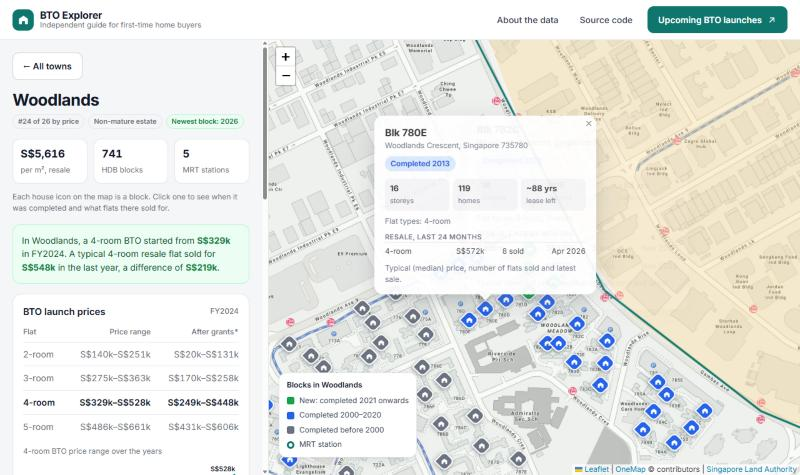
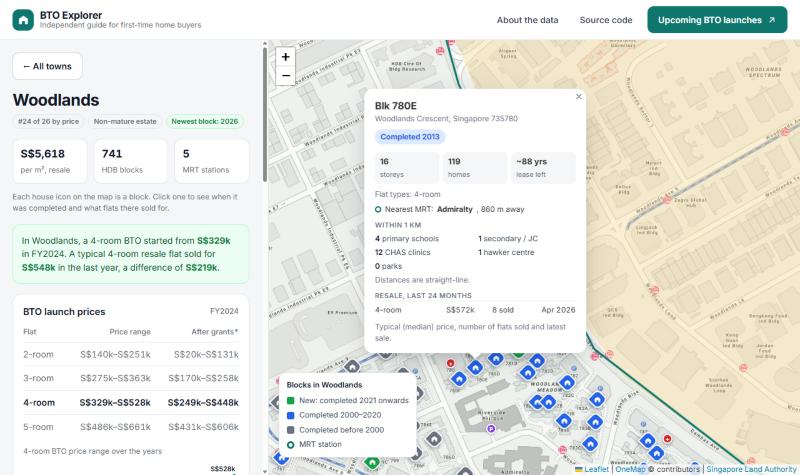
BTO Explorer: nearest MRT, amenities and monthly updates shipped

diff --git a/bto-explorer.html b/bto-explorer.html
@@ -4,7 +4,7 @@
 <meta charset="UTF-8">
 <meta name="viewport" content="width=device-width, initial-scale=1, viewport-fit=cover">
 <title>BTO Explorer case study | Matthew Tan</title>
-<meta name="description" content="How I built BTO Explorer, an independent map that helps young couples in Singapore compare HDB towns and every HDB block using seven official open datasets.">
+<meta name="description" content="How I built BTO Explorer, an independent map that helps young couples in Singapore compare HDB towns and every HDB block, using ten official open datasets that update every month.">
 <meta property="og:title" content="BTO Explorer case study | Matthew Tan">
 <meta property="og:description" content="An independent map for young couples: HDB towns, 10,800+ blocks, BTO launch prices, MRT and food nearby.">
 <meta property="og:type" content="article">
@@ -36,15 +36,15 @@
       <div><dt>Role</dt><dd>Solo: research, data, design, build</dd></div>
       <div><dt>Timeline</dt><dd>2026</dd></div>
       <div><dt>Stack</dt><dd>Python, pandas, SQL, Shapely, Leaflet</dd></div>
-      <div><dt>Data</dt><dd>7 official datasets: HDB, URA, LTA, NEA</dd></div>
+      <div><dt>Data</dt><dd>10 official datasets, updated monthly</dd></div>
     </dl>
     <div class="actions">
       <a class="btn btn-primary" href="https://yushenn.github.io/bto-explorer/" target="_blank" rel="noopener"><svg viewBox="0 0 24 24" fill="none" stroke="currentColor" stroke-width="2" stroke-linecap="round" stroke-linejoin="round" aria-hidden="true"><path d="M7 17 17 7M8 7h9v9"/></svg>Open live site</a>
       <a class="btn" href="https://github.com/yushenn/bto-explorer" target="_blank" rel="noopener"><svg viewBox="0 0 24 24" fill="none" stroke="currentColor" stroke-width="2" stroke-linecap="round" stroke-linejoin="round" aria-hidden="true"><path d="m8 8-4 4 4 4M16 8l4 4-4 4"/></svg>View code</a>
     </div>
     <figure class="wide-shot reveal">
-      <img src="images/bto-block.jpg" alt="BTO Explorer zoomed into Woodlands, with house icons for each block and a popup for Blk 780E showing its completion year and resale prices" width="800" height="475" loading="lazy">
-      <figcaption>Every HDB block is a house icon. Click one for its completion year, size, lease left and recent resale prices.</figcaption>
+      <img src="images/bto-block.jpg" alt="BTO Explorer zoomed into Woodlands, with a popup for Blk 780E showing its completion year, nearest MRT station, what is within 1 km, and resale prices" width="800" height="475" loading="lazy">
+      <figcaption>Every HDB block is a house icon. Click one for its completion year, nearest MRT, what's within 1 km and recent resale prices.</figcaption>
     </figure>
   </section>
 
@@ -64,6 +64,7 @@
         <li><b>A town map ranked from most to least expensive,</b> by resale price per m² over the last 12 months.</li>
         <li><b>A budget mode:</b> pick a flat type and budget to see where a typical resale flat fits, and where only a recent BTO launch fits.</li>
         <li><b>Every HDB block on the map.</b> 10,802 blocks appear as house icons, coloured by age. Click one for its completion year, storeys, homes, lease left, flat types and resale prices from the last 24 months.</li>
+        <li><b>What's nearby:</b> each block shows its nearest MRT station and distance, plus the primary schools, secondary schools, CHAS clinics, parks and hawker centres within 1 km. Each of these can also be switched on as a map layer.</li>
         <li><b>A town panel</b> with BTO launch prices (including after grants) since FY2008, the gap between BTO and resale prices, MRT/LRT stations and hawker centres.</li>
       </ul>
     </div>
@@ -93,8 +94,8 @@
       </div>
       <div class="card">
         <span class="ic"><svg viewBox="0 0 24 24" fill="none" stroke="currentColor" stroke-width="2" stroke-linecap="round" stroke-linejoin="round" aria-hidden="true"><circle cx="12" cy="12" r="9"/><path d="M12 8v4l3 2"/></svg></span>
-        <h3>Reproducible pipeline</h3>
-        <p>Two Python scripts download all seven datasets from the data.gov.sg API and rebuild every file the site uses, so the data can be refreshed with two commands.</p>
+        <h3>Nearby, with NumPy</h3>
+        <p>For each of the 10,802 blocks, vectorised haversine distances find the nearest MRT station and count the schools, clinics, parks and hawker centres within 1 km. School postal codes are placed with OneMap's search, once, and cached.</p>
       </div>
     </div>
   </section>
@@ -136,11 +137,28 @@
   </section>
 
   <section class="section reveal">
-    <div class="section-head"><span class="num">06</span><h2>What I'd do next</h2></div>
+    <div class="section-head"><span class="num">06</span><h2>From "next steps" to shipped</h2></div>
+    <p class="prose" style="margin-bottom:1rem"><span style="color:var(--muted)">When I first published this case study, I listed three next steps. I've since built all three.</span></p>
+    <div class="challenge">
+      <div class="p"><span class="lbl">Planned</span><p>Show the distance from each block to its nearest MRT station.</p></div>
+      <div class="s"><span class="lbl">Shipped</span><p>Every block now shows its nearest MRT station and how far it is. The typical block is 670 m from a station, and 3,491 blocks are within 500 m. Distances are straight-line: real walking routes would need a routing service, so the site says so rather than guessing walking times.</p></div>
+    </div>
+    <div class="challenge">
+      <div class="p"><span class="lbl">Planned</span><p>Add layers for schools, clinics, parks and supermarkets.</p></div>
+      <div class="s"><span class="lbl">Shipped</span><p>Added 337 MOE schools, 1,193 CHAS clinics and 462 NParks parks, both as map layers and as counts within 1 km of every block. Supermarkets aren't included because no open dataset has their locations, only yearly totals.</p></div>
+    </div>
+    <div class="challenge">
+      <div class="p"><span class="lbl">Planned</span><p>Refresh the data every month with GitHub Actions.</p></div>
+      <div class="s"><span class="lbl">Shipped</span><p>A scheduled workflow now downloads all ten datasets on the 3rd of every month, rebuilds the site's files and publishes any changes. Its first test run failed: data.gov.sg blocks Python's default User-Agent. I found that by reproducing it locally, then fixed it and added retries. The next run worked and pulled in that month's new resale sales.</p></div>
+    </div>
+  </section>
+
+  <section class="section reveal">
+    <div class="section-head"><span class="num">07</span><h2>What I'd do next</h2></div>
     <ul class="next">
-      <li><b>Distance to MRT</b><span>Show the walking distance from each block to its nearest station.</span></li>
-      <li><b>More amenities</b><span>Add layers for schools, clinics, parks and supermarkets.</span></li>
-      <li><b>Automatic updates</b><span>Refresh the data every month with GitHub Actions.</span></li>
+      <li><b>Real walking routes</b><span>Use OneMap's routing service to show walking time to the nearest MRT.</span></li>
+      <li><b>Shortlist and compare</b><span>Let couples save a few blocks and compare them side by side.</span></li>
+      <li><b>Data tests</b><span>Automated checks that fail the monthly update if a dataset's format changes.</span></li>
     </ul>
   </section>
 

diff --git a/index.html b/index.html
@@ -444,10 +444,11 @@ footer{padding:2.6rem 0 calc(2.8rem + env(safe-area-inset-bottom,0px));color:var
           </div>
         </div>
         <ul>
-          <li>Combined seven official datasets (HDB, URA, LTA, NEA) into one map, with town price medians calculated in SQL using window functions</li>
+          <li>Combined ten official datasets (HDB, URA, LTA, NEA, MOE, MOH, NParks) into one map, with town price medians calculated in SQL using window functions</li>
           <li>Placed 10,802 HDB blocks on the map by joining two HDB datasets that share no ID, matching streets by their block numbers, and checked a sample against OneMap's official addresses</li>
-          <li>Click any block to see its completion year, storeys, lease left and resale prices from the last 24 months</li>
+          <li>Click any block to see its completion year, lease left, recent resale prices, nearest MRT station, and the schools, clinics, parks and hawker centres within 1 km</li>
           <li>A budget mode shows where a typical resale flat fits, and where only a recent BTO launch fits</li>
+          <li>Updates itself every month with a GitHub Actions workflow that downloads the latest data and republishes the site</li>
         </ul>
       </li>
           <li>Built a regression model that explains 91% of price variation, tested on 49,000 sales it had never seen</li>
